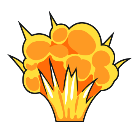
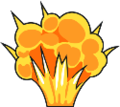
cropped explosion image

diff --git a/style.css b/style.css
@@ -79,8 +79,8 @@ h1 {
 
 #tank1.explosion,
 #tank2.explosion {
-  width: auto;
-  height: 111px;
+  width: 120px;
+  margin-top: 4px;
 }
 
 #tank2 {
